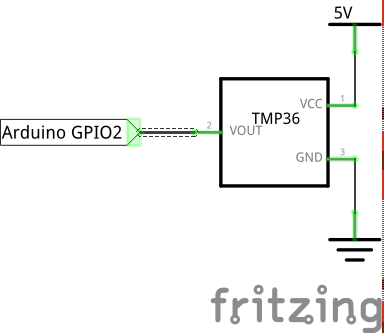
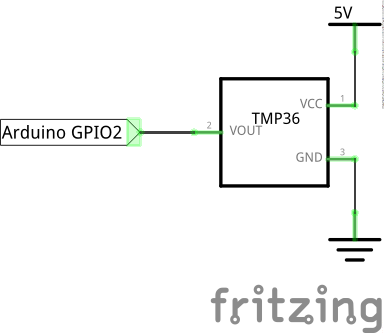
fixed some fritzing artifacts

diff --git a/Omega2/Kit-Guides/Arduino/experiments/04-reading-a-push-button.md b/Omega2/Kit-Guides/Arduino/experiments/04-reading-a-push-button.md
@@ -66,9 +66,9 @@ Prepare the following components from your kit:
 <!-- // TODO: photo of button and debouncer circuit with LEDs only LINK ABOVE IS NOT FINAL -->
 
 
-1. Connect the LEDS and resistors the same way as in the [multiple LED tutorial](#arduino-kit-02-multiple-leds).
+1. Connect the LEDs and resistors the same way as in the [multiple LED tutorial](#arduino-kit-02-multiple-leds).
     * Plug in six LEDs onto the breadboard, each across the middle channel of the breadboard.
-    * Connect cathodes of the LEDs to the  rail on the breadboard each through a different 200Ω current limiting resistor.
+    * Connect cathodes of the LEDs to the rail on the breadboard each through a different 200Ω current limiting resistor.
 1. Plug the push button onto the breadboard with the channel on the bottom of the button perpendicular to the channel on the breadboard. The circuit looks something like this:
 
 Now let's connect the circuit to the Dock:

diff --git a/Omega2/Kit-Guides/Arduino/experiments/06-reading-a-photoresistor.md b/Omega2/Kit-Guides/Arduino/experiments/06-reading-a-photoresistor.md
@@ -38,7 +38,7 @@ Once you have the components ready, follow these steps:
 
 1. Connect one end of the photoresistor to `5V` and the other end to the 10K resistor (the polarity does not matter).
 1. Connect the other end of the 10K resistor to `GND`.
-1. Connect the middle point between the photoresistor and resistor to the A0 analog pin on the Arduino Dock
+1. Connect the middle point between the photoresistor and resistor to the A0 analog pin on the Arduino Dock.
 
 All done! Here's what our finished circuit looks like:
 
